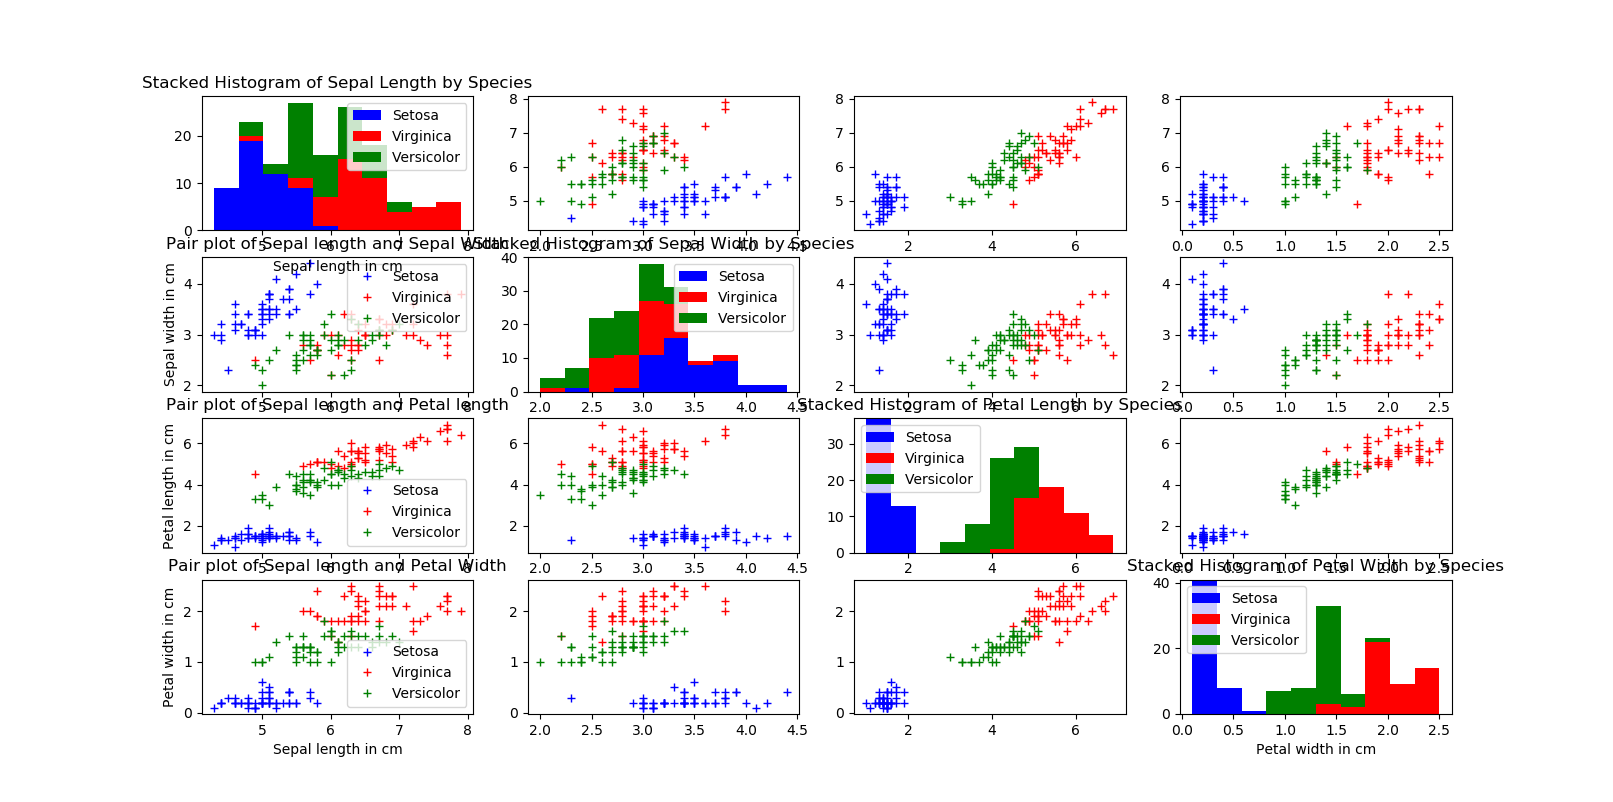
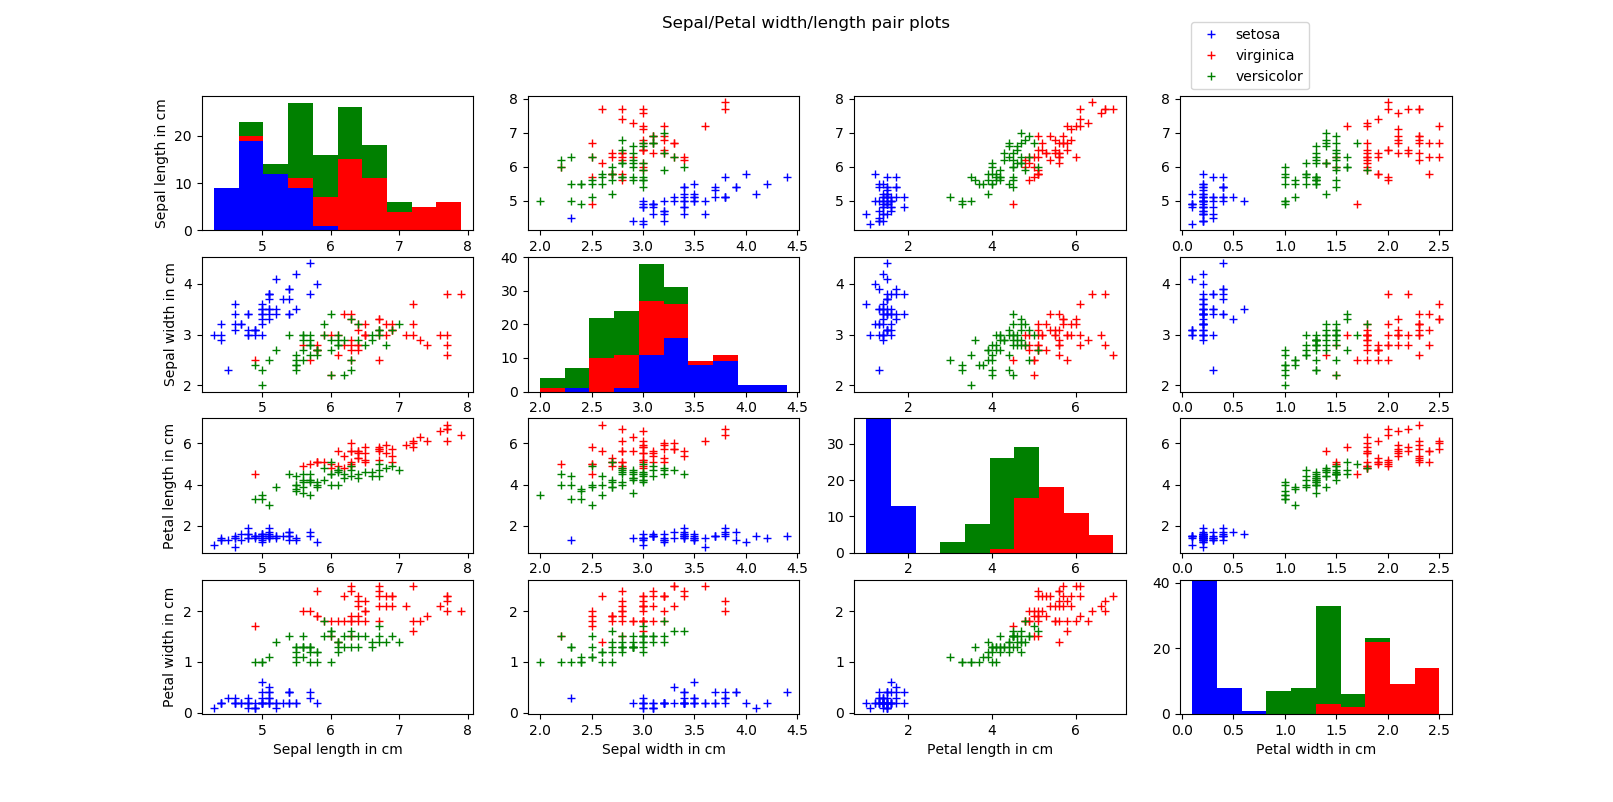
4x4 subplot legend added

diff --git a/iris.py b/iris.py
@@ -20,30 +20,23 @@ ve = versicolor.set_index(s)
 plot.subplot(2,2,1)
 plot.plot(setosa['sepal_length'],'b.',vi['sepal_length'],'r.',ve['sepal_length'],'g.')
 plot.ylabel('Sepal Length in cm')
-plot.title('Measurements of Sepal lengths by species')
 labels = ['Setosa','Virginica','Versicolor']
 plot.legend(labels) # Adapted from https://matplotlib.org/api/_as_gen/matplotlib.pyplot.legend.html
 
 plot.subplot(2,2,2)
 plot.plot(setosa['sepal_width'],'b.',vi['sepal_width'],'r.',ve['sepal_width'],'g.')
-plot.ylabel('Sepal Width in cm')
-plot.title('Measurements of Sepal widths by species')
-labels = ['Setosa','Virginica','Versicolor']
 plot.legend(labels) # Adapted from https://matplotlib.org/api/_as_gen/matplotlib.pyplot.legend.html
 
 plot.subplot(2,2,3)
 plot.plot(setosa['petal_length'],'b.',vi['petal_length'],'r.',ve['petal_length'],'g.')
 plot.ylabel('Petal Length in cm')
-plot.title('Measurements of Petal lengths by species')
-labels = ['Setosa','Virginica','Versicolor']
 plot.legend(labels) # Adapted from https://matplotlib.org/api/_as_gen/matplotlib.pyplot.legend.html
 
 plot.subplot(2,2,4)
 plot.plot(setosa['petal_width'],'b.',vi['petal_width'],'r.',ve['petal_width'],'g.')
-plot.ylabel('Petal Width in cm')
-plot.title('Measurements of Petal widths by species')
-labels = ['Setosa','Virginica','Versicolor']
 plot.legend(labels) # Adapted from https://matplotlib.org/api/_as_gen/matplotlib.pyplot.legend.html
+plot.suptitle('Measurements of Petal/Sepal widths/lengths by species') # Adapted from https://stackoverflow.com/a/25243066
+
 plot.show()
 
 
@@ -51,63 +44,39 @@ plot.show()
 # adapted https://www.kaggle.com/jchen2186/machine-learning-with-iris-dataset
 plot.subplot(4,4,5)
 plot.plot(setosa['sepal_length'].values,setosa['sepal_width'].values,'b+',vi['sepal_length'].values,vi['sepal_width'].values,'r+',ve['sepal_length'].values,ve['sepal_width'].values,'g+')
-plot.legend(labels)
-plot.title('Pair plot of Sepal length and Sepal Width')
-plot.xlabel('Sepal length in cm')
 plot.ylabel('Sepal width in cm')
+
 plot.subplot(4,4,9)
 plot.plot(setosa['sepal_length'].values,setosa['petal_length'].values,'b+',vi['sepal_length'].values,vi['petal_length'].values,'r+',ve['sepal_length'].values,ve['petal_length'].values,'g+')
-plot.legend(labels)
-plot.xlabel('Sepal length in cm')
 plot.ylabel('Petal length in cm')
-plot.title('Pair plot of Sepal length and Petal length')
+
 plot.subplot(4,4,13)
 plot.plot(setosa['sepal_length'].values,setosa['petal_width'].values,'b+',vi['sepal_length'].values,vi['petal_width'].values,'r+',ve['sepal_length'].values,ve['petal_width'].values,'g+')
-plot.legend(labels)
-plot.xlabel('Sepal length in cm')
 plot.ylabel('Petal width in cm')
-plot.title('Pair plot of Sepal length and Petal Width')
+plot.xlabel('Sepal length in cm')
 
 # Adapted from https://matplotlib.org/examples/statistics/histogram_demo_multihist.html
 plot.subplot(4,4,1)
 x_multi = [setosa['sepal_length'],vi['sepal_length'],ve['sepal_length']]
 colours = ['blue','red','green']
+plot.ylabel('Sepal length in cm')
 plot.hist(x_multi,bins=10,stacked=True,color=colours)
-plot.legend(labels)
-plot.xlabel('Sepal length in cm')
-plot.title('Stacked Histogram of Sepal Length by Species')
 
 plot.subplot(4,4,6)
 x1_multi = [setosa['sepal_width'],vi['sepal_width'],ve['sepal_width']]
 colours = ['blue','red','green']
 plot.hist(x1_multi,bins=10,stacked=True,color=colours)
-plot.legend(labels)
-plot.xlabel('Sepal width in cm')
-plot.title('Stacked Histogram of Sepal Width by Species')
 
 plot.subplot(4,4,11)
 x2_multi = [setosa['petal_length'],vi['petal_length'],ve['petal_length']]
 colours = ['blue','red','green']
 plot.hist(x2_multi,bins=10,stacked=True,color=colours)
-plot.legend(labels)
-plot.xlabel('Petal length in cm')
-plot.title('Stacked Histogram of Petal Length by Species')
 
 plot.subplot(4,4,16)
 x3_multi = [setosa['petal_width'],vi['petal_width'],ve['petal_width']]
 colours = ['blue','red','green']
 plot.hist(x3_multi,bins=10,stacked=True,color=colours)
-plot.legend(labels)
 plot.xlabel('Petal width in cm')
-plot.title('Stacked Histogram of Petal Width by Species')
-
-
-
-#print('Setosa min sepal length is ', setosa['sepal_length'].min())
-#print('Setosa max sepal length is ', setosa['sepal_length'].max())
-#print('Setosa mean sepal length is ', setosa['sepal_length'].mean())
-#print('Setosa min sepal length is ', setosa['sepal_length'].min())
-#print('Setosa STD sepal length is ', setosa['sepal_length'].std())
 
 plot.subplot(4,4,2)
 plot.plot(setosa['sepal_width'].values,setosa['sepal_length'].values,'b+',vi['sepal_width'].values,vi['sepal_length'].values,'r+',ve['sepal_width'].values,ve['sepal_length'].values,'g+')
@@ -117,6 +86,8 @@ plot.plot(setosa['sepal_width'].values,setosa['petal_length'].values,'b+',vi['se
 
 plot.subplot(4,4,14)
 plot.plot(setosa['sepal_width'].values,setosa['petal_width'].values,'b+',vi['sepal_width'].values,vi['petal_width'].values,'r+',ve['sepal_width'].values,ve['petal_width'].values,'g+')
+plot.xlabel('Sepal width in cm')
+
 
 plot.subplot(4,4,3)
 plot.plot(setosa['petal_length'].values,setosa['sepal_length'].values,'b+',vi['petal_length'].values,vi['sepal_length'].values,'r+',ve['petal_length'].values,ve['sepal_length'].values,'g+')
@@ -126,9 +97,14 @@ plot.plot(setosa['petal_length'].values,setosa['sepal_width'].values,'b+',vi['pe
 
 plot.subplot(4,4,15)
 plot.plot(setosa['petal_length'].values,setosa['petal_width'].values,'b+',vi['petal_length'].values,vi['petal_width'].values,'r+',ve['petal_length'].values,ve['petal_width'].values,'g+')
+plot.xlabel('Petal length in cm')
+
 
 plot.subplot(4,4,4)
-plot.plot(setosa['petal_width'].values,setosa['sepal_length'].values,'b+',vi['petal_width'].values,vi['sepal_length'].values,'r+',ve['petal_width'].values,ve['sepal_length'].values,'g+')
+plot.plot(setosa['petal_width'].values,setosa['sepal_length'].values,'b+',label='setosa')
+plot.plot(vi['petal_width'].values,vi['sepal_length'].values,'r+',label='virginica')
+plot.plot(ve['petal_width'].values,ve['sepal_length'].values,'g+',label='versicolor')
+plot.legend(bbox_to_anchor=(0., 1.5, 0.5, .102))
 
 
 plot.subplot(4,4,8)
@@ -137,4 +113,11 @@ plot.plot(setosa['petal_width'].values,setosa['sepal_width'].values,'b+',vi['pet
 plot.subplot(4,4,12)
 plot.plot(setosa['petal_width'].values,setosa['petal_length'].values,'b+',vi['petal_width'].values,vi['petal_length'].values,'r+',ve['petal_width'].values,ve['petal_length'].values,'g+')
 
+plot.suptitle('Sepal/Petal width/length pair plots')
 plot.show()
+
+#print('Setosa min sepal length is ', setosa['sepal_length'].min())
+#print('Setosa max sepal length is ', setosa['sepal_length'].max())
+#print('Setosa mean sepal length is ', setosa['sepal_length'].mean())
+#print('Setosa min sepal length is ', setosa['sepal_length'].min())
+#print('Setosa STD sepal length is ', setosa['sepal_length'].std())
